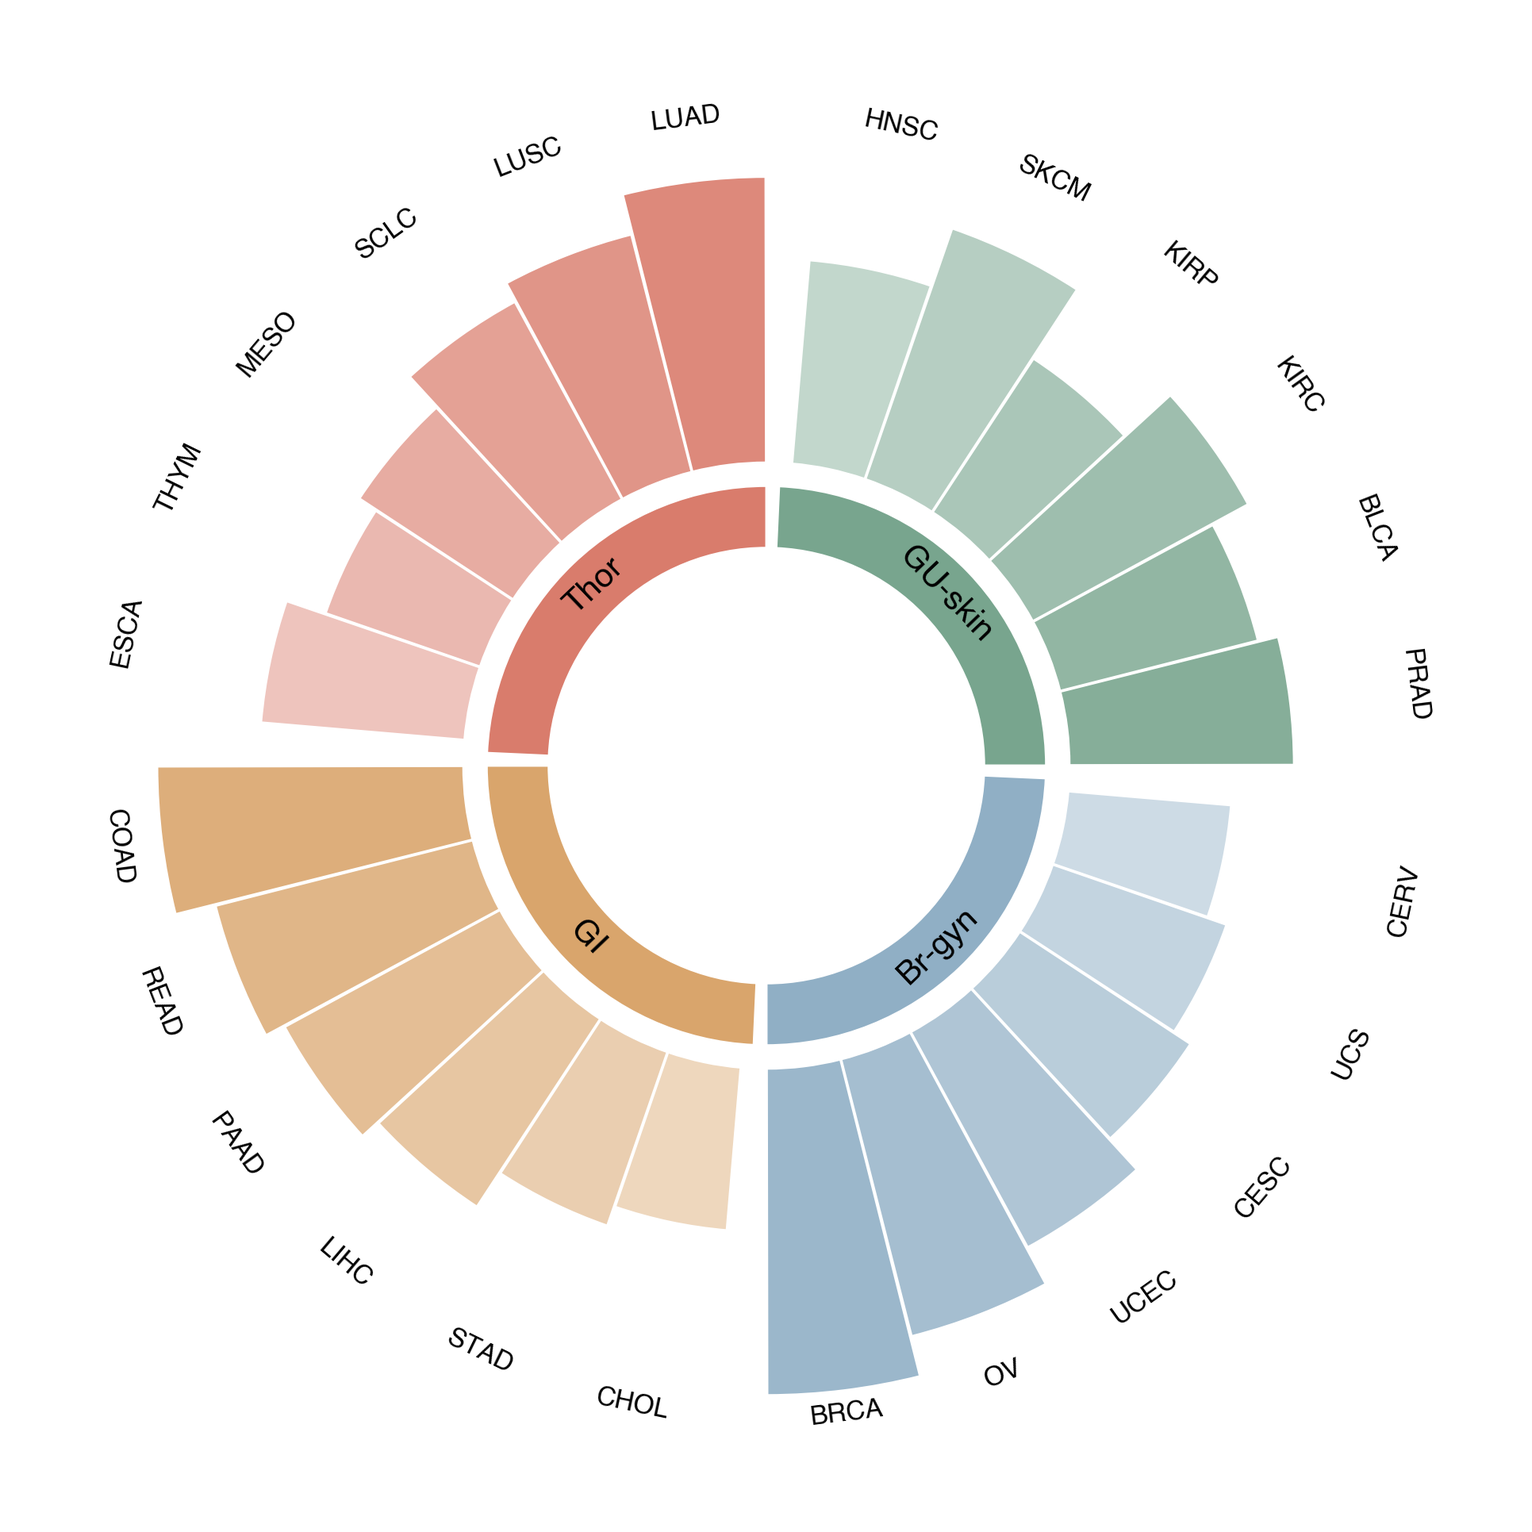
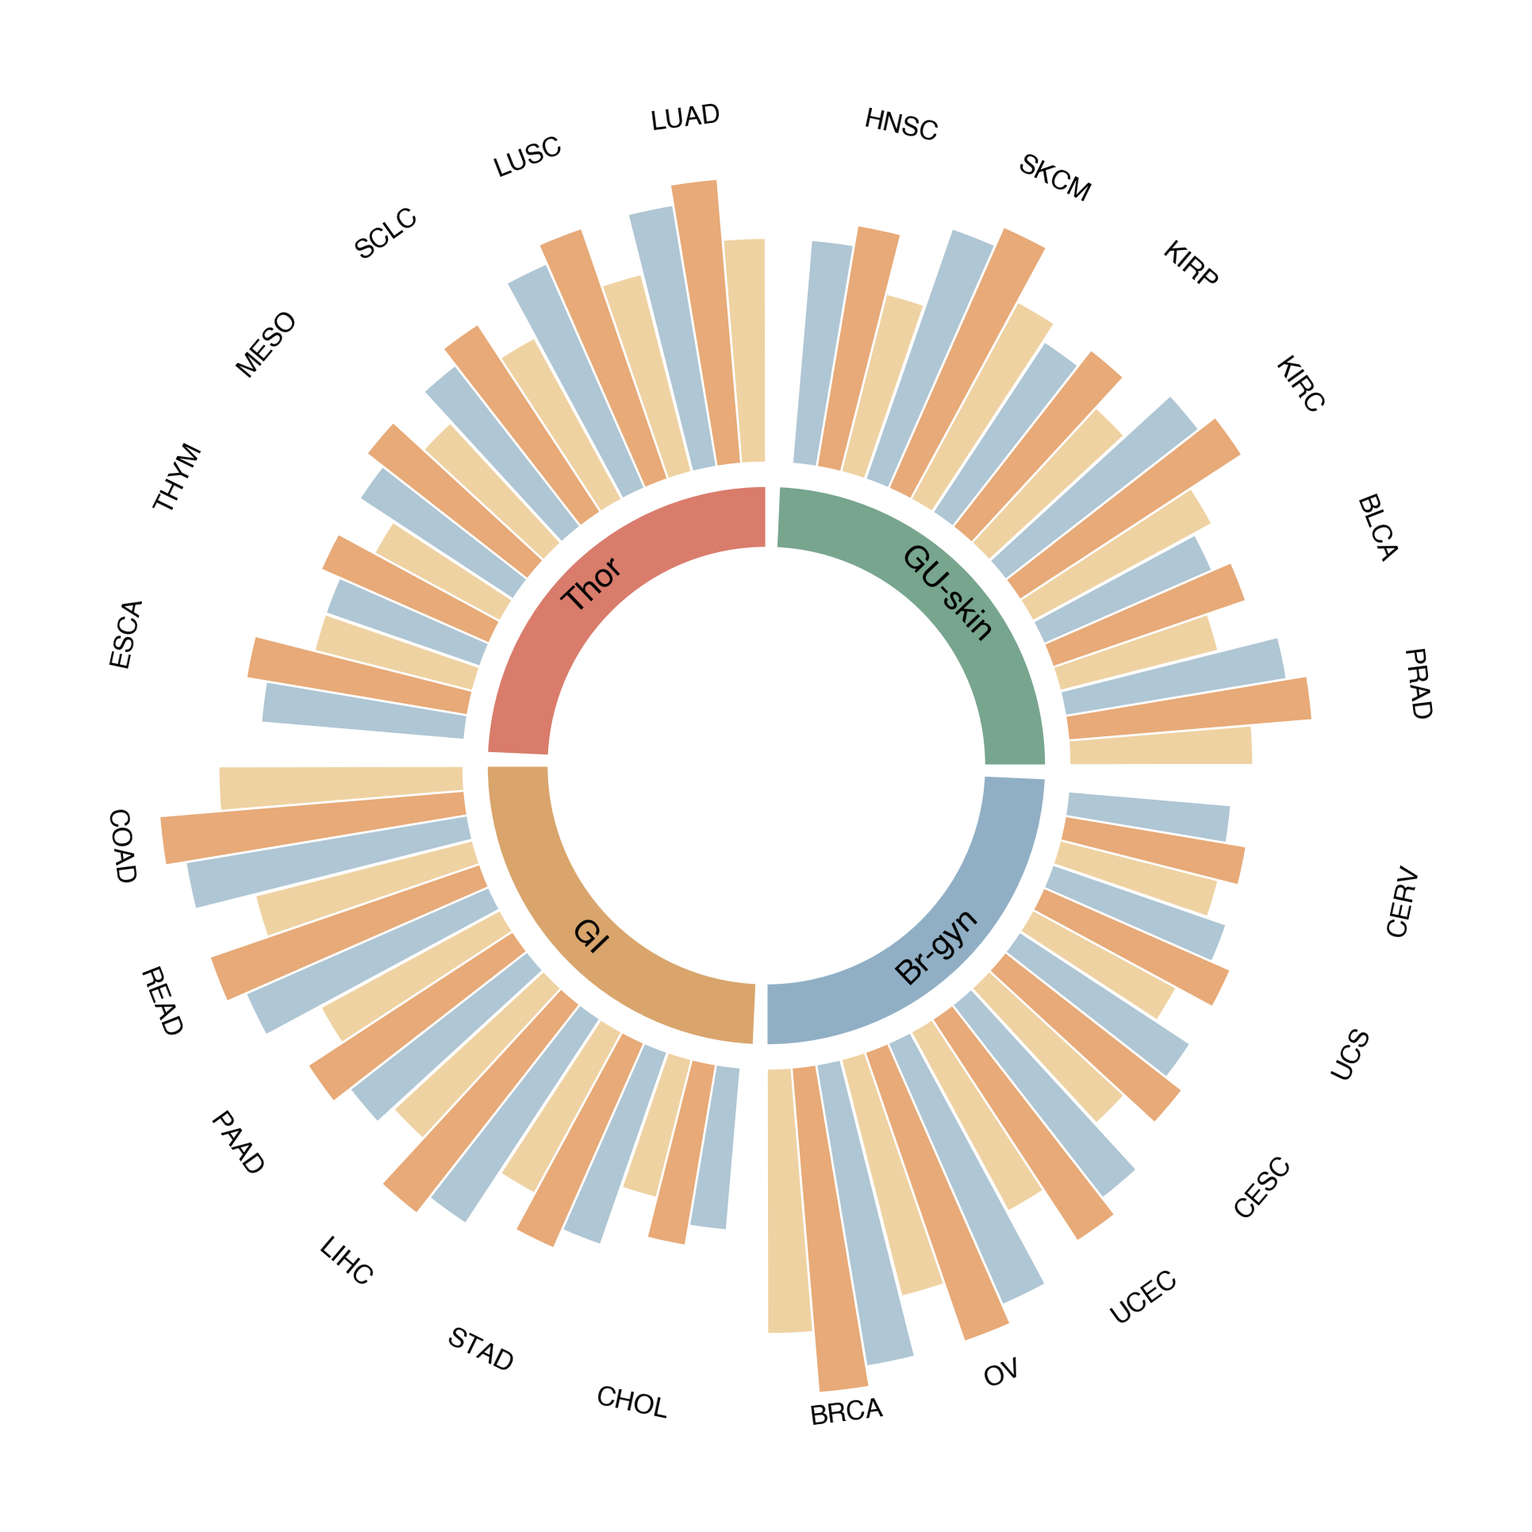
feat(polar): add new polar families to full gallery
Update radial_hierarchy defaults, rework circular_grouped_bar, and sync gallery plus README references for the new polar families.\n\nCo-Authored-By: Claude <noreply@anthropic.com>

Changed region(s): [[0.0932, 0.0932, 0.87, 0.9322]]

diff --git a/src/pubfig/plots/polar.py b/src/pubfig/plots/polar.py
@@ -134,7 +134,7 @@ def radial_hierarchy(
     group_gap_degrees: float = 2.4,
     outer_label_radius_offset: float = 0.08,
     outer_value_radius_offset: float = 0.03,
-    subgroup_label_position: str = "outside",
+    subgroup_label_position: str = "inside",
     show_group_labels: bool = True,
     show_outer_values: bool = True,
     center_text_font_size: Optional[int] = None,
@@ -582,6 +582,8 @@ def circular_grouped_bar(
     *,
     item_labels: Sequence[str],
     item_groups: Sequence[str],
+    series_labels: Optional[Sequence[str]] = None,
+    series_colors: Optional[Sequence[str]] = None,
     group_colors: Optional[Sequence[str]] = None,
     title: Optional[str] = None,
     start_angle: float = 90.0,
@@ -591,9 +593,12 @@ def circular_grouped_bar(
     bar_max_height: float = 0.42,
     item_gap_degrees: float = 0.18,
     group_gap_degrees: float = 4.8,
+    series_gap_degrees: float = 0.05,
     outer_label_offset: float = 0.03,
     group_label_font_size: Optional[int] = 5,
     item_label_font_size: Optional[int] = 4,
+    legend_show: bool = False,
+    legend_ncol: Optional[int] = None,
     show_group_labels: bool = True,
     show_value_labels: bool = False,
     value_label_font_size: Optional[int] = None,
@@ -603,24 +608,30 @@ def circular_grouped_bar(
     ax: Optional["Axes"] = None,
 ) -> "Figure":
     """Create a circular grouped bar chart with an inner group ring."""
-    arr = np.asarray(values, dtype=float).reshape(-1)
-    if arr.size == 0:
-        raise ValueError("values must contain at least one element")
+    arr = np.asarray(values, dtype=float)
+    if arr.ndim == 1:
+        arr = arr[:, None]
+    if arr.ndim != 2 or arr.shape[0] == 0 or arr.shape[1] == 0:
+        raise ValueError("values must be a 2D numpy array with shape (n_items, n_series)")
     if np.any(arr < 0):
         raise ValueError("values must be non-negative")
-    n_items = int(arr.size)
+    n_items, n_series = arr.shape
     labels = [str(item) for item in item_labels]
     if len(labels) != n_items:
-        raise ValueError("item_labels must match the number of values")
+        raise ValueError("item_labels must match the number of rows in values")
     groups = [str(item) for item in item_groups]
     if len(groups) != n_items:
-        raise ValueError("item_groups must match the number of values")
+        raise ValueError("item_groups must match the number of rows in values")
+    series = [str(item) for item in series_labels] if series_labels is not None else [f"S{idx + 1}" for idx in range(n_series)]
+    if len(series) != int(n_series):
+        raise ValueError("series_labels must match the number of columns in values")
 
     group_names, group_starts, group_counts = _ordered_group_blocks(groups)
+    series_palette = normalize_palette(series_colors, fallback=["#EFD2A2", "#E7AA78", "#AFC6D4", "#6E88AA"])
     group_palette = normalize_palette(group_colors, fallback=["#D97C6C", "#D9A56C", "#90AFC5", "#78A58E"])
     max_value = float(np.max(arr))
     if max_value <= 0:
-        raise ValueError("At least one item in values must be positive")
+        raise ValueError("At least one entry in values must be positive")
 
     total_item_gap = float(item_gap_degrees) * float(n_items)
     total_group_gap = float(group_gap_degrees) * float(len(group_names))
@@ -628,6 +639,10 @@ def circular_grouped_bar(
     if usable <= 0:
         raise ValueError("Too many items or too much angular gap for a circular grouped bar plot")
     item_span = usable / float(n_items)
+    total_series_gap = max(0.0, float(n_series - 1)) * float(series_gap_degrees)
+    bar_span = (float(item_span) - float(total_series_gap)) / float(n_series)
+    if bar_span <= 0:
+        raise ValueError("series_gap_degrees is too large for the number of grouped series")
 
     with theme_context(theme) as t:
         dpi = resolve_design_dpi(t.name)
@@ -636,33 +651,37 @@ def circular_grouped_bar(
         group_fs = int(group_label_font_size) if group_label_font_size is not None else max(7, int(t.axis.tick_font_size) - 2)
         item_fs = int(item_label_font_size) if item_label_font_size is not None else max(6, int(t.axis.tick_font_size) - 3)
         value_fs = int(value_label_font_size) if value_label_font_size is not None else max(6, int(t.axis.tick_font_size) - 3)
+        series_handles = [Patch(facecolor=series_palette[idx % len(series_palette)], edgecolor="none", label=str(series[idx])) for idx in range(n_series)]
 
         group_lookup = {name: idx for idx, name in enumerate(group_names)}
         cursor = float(start_angle)
         group_ranges: list[tuple[str, float, float]] = []
         for g_name, g_start, g_count in zip(group_names, group_starts, group_counts, strict=True):
             group_theta0 = float(cursor)
-            base_color = str(group_palette[group_lookup[g_name] % len(group_palette)])
             for local_item_idx in range(int(g_count)):
                 item_idx = int(g_start + local_item_idx)
-                theta0 = float(cursor + item_gap_degrees * 0.5)
-                theta1 = float(theta0 + item_span)
-                theta_mid = 0.5 * (float(theta0) + float(theta1))
+                item_theta0 = float(cursor + item_gap_degrees * 0.5)
+                item_theta1 = float(item_theta0 + item_span)
+                theta_mid = 0.5 * (float(item_theta0) + float(item_theta1))
                 theta_rad = np.deg2rad(float(theta_mid))
-                height = float(bar_max_height) * float(arr[item_idx]) / float(max_value)
-                shade = 0.10 + 0.45 * (float(local_item_idx) / max(1.0, float(g_count - 1)))
-                patch = Wedge(
-                    (0.0, 0.0),
-                    r=float(bar_inner_radius + height),
-                    theta1=float(theta0),
-                    theta2=float(theta1),
-                    width=float(height),
-                    facecolor=_blend_with_white(base_color, amount=min(max(shade, 0.0), 0.75)),
-                    edgecolor="white",
-                    linewidth=max(float(t.axis.line_width) * 0.35, 0.3),
-                    zorder=3,
-                )
-                ax.add_patch(patch)
+                series_cursor = float(item_theta0)
+                for series_idx in range(n_series):
+                    theta0 = float(series_cursor)
+                    theta1 = float(theta0 + bar_span)
+                    series_cursor = float(theta1 + float(series_gap_degrees))
+                    height = float(bar_max_height) * float(arr[item_idx, series_idx]) / float(max_value)
+                    patch = Wedge(
+                        (0.0, 0.0),
+                        r=float(bar_inner_radius + height),
+                        theta1=float(theta0),
+                        theta2=float(theta1),
+                        width=float(height),
+                        facecolor=series_palette[series_idx % len(series_palette)],
+                        edgecolor="white",
+                        linewidth=max(float(t.axis.line_width) * 0.35, 0.28),
+                        zorder=3,
+                    )
+                    ax.add_patch(patch)
 
                 label_radius = float(bar_inner_radius) + float(bar_max_height) + float(outer_label_offset)
                 ax.text(
@@ -678,11 +697,11 @@ def circular_grouped_bar(
                     zorder=4,
                 )
                 if bool(show_value_labels):
-                    value_radius = float(bar_inner_radius + height + 0.02)
+                    value_radius = float(bar_inner_radius + float(bar_max_height) + 0.02)
                     ax.text(
                         value_radius * float(np.cos(theta_rad)),
                         value_radius * float(np.sin(theta_rad)),
-                        f"{float(arr[item_idx]):.0f}",
+                        f"{float(np.max(arr[item_idx])):.0f}",
                         rotation=float(_upright_tangent_rotation(float(theta_mid))),
                         rotation_mode="anchor",
                         ha="center",
@@ -728,6 +747,22 @@ def circular_grouped_bar(
 
         if title:
             title_above(ax, str(title), y=1.04)
+        if bool(legend_show):
+            legend = ax.legend(
+                handles=series_handles,
+                frameon=False,
+                ncol=int(legend_ncol) if legend_ncol is not None else min(4, max(1, len(series_handles))),
+                loc="lower center",
+                bbox_to_anchor=(0.5, -0.04),
+                prop={"family": t.font_family, "size": float(t.legend_font_size)},
+                handlelength=1.0,
+                columnspacing=0.7,
+                handletextpad=0.4,
+            )
+            try:
+                legend.set_in_layout(True)
+            except Exception:
+                pass
 
         lim = float(bar_inner_radius) + float(bar_max_height) + float(outer_label_offset) + 0.14
         ax.set_xlim(-lim, lim)

diff --git a/examples/new_plot_showcases.py b/examples/new_plot_showcases.py
@@ -305,8 +305,8 @@ def make_circular_stacked_bar_demo() -> tuple[np.ndarray, list[str], list[str], 
     return values, item_labels, item_groups, stack_labels
 
 
-def make_circular_grouped_bar_demo() -> tuple[np.ndarray, list[str], list[str]]:
-    """Return a dense circular grouped bar demo."""
+def make_circular_grouped_bar_demo() -> tuple[np.ndarray, list[str], list[str], list[str]]:
+    """Return a true grouped circular bar demo."""
     item_groups = (
         ["Thor"] * 6
         + ["GI"] * 6
@@ -341,14 +341,35 @@ def make_circular_grouped_bar_demo() -> tuple[np.ndarray, list[str], list[str]]:
     ]
     values = np.array(
         [
-            14, 12, 11, 9, 8, 10,
-            15, 13, 12, 11, 9, 8,
-            16, 14, 12, 10, 9, 8,
-            11, 10, 12, 9, 13, 10,
+            [11, 14, 13],
+            [10, 13, 12],
+            [9, 11, 10],
+            [8, 10, 9],
+            [7, 9, 8],
+            [8, 11, 10],
+            [12, 15, 14],
+            [11, 14, 13],
+            [10, 12, 11],
+            [10, 13, 12],
+            [9, 11, 10],
+            [7, 9, 8],
+            [13, 16, 15],
+            [12, 15, 14],
+            [10, 13, 12],
+            [9, 11, 10],
+            [8, 10, 9],
+            [8, 9, 8],
+            [9, 12, 11],
+            [8, 10, 9],
+            [10, 13, 12],
+            [9, 11, 10],
+            [11, 14, 13],
+            [9, 12, 11],
         ],
         dtype=float,
     )
-    return values, item_labels, item_groups
+    series_labels = ["Cohort A", "Cohort B", "Cohort C"]
+    return values, item_labels, item_groups, series_labels
 
 
 __all__ = [

diff --git a/examples/gallery_contact_sheet.py b/examples/gallery_contact_sheet.py
@@ -14,9 +14,11 @@ _GALLERY_ROWS: tuple[tuple[str, ...], ...] = (
     ("08_strip", "08b_raincloud", "09_ridgeline", "10_line"),
     ("11_line_ci", "12_area", "13_scatter", "14_bubble"),
     ("15_contour2d", "15b_hexbin", "16_paired", "16b_dumbbell"),
-    ("16c_forest_plot", "17_radar", "18_heatmap", "19_confusion_matrix"),
-    ("20_corr_matrix", "21_clustermap", "24_roc", "25_pr_curve"),
-    ("25b_volcano", "26_sankey", "27_parallel_coords"),
+    ("16c_forest_plot", "16d_grouped_scatter", "16e_donut", "16f_stacked_ratio_barh"),
+    ("16g_radial_hierarchy", "16h_circular_stacked_bar", "16i_circular_grouped_bar", "17_radar"),
+    ("18_heatmap", "19_confusion_matrix", "20_corr_matrix", "21_clustermap"),
+    ("24_roc", "25_pr_curve", "25b_volcano", "26_sankey"),
+    ("27_parallel_coords",),
 )
 
 _CELL_WIDTH = 560

diff --git a/examples/export_gallery.py b/examples/export_gallery.py
@@ -463,12 +463,13 @@ save_square(
     ),
     "16h_circular_stacked_bar",
 )
-circular_grouped_values, circular_grouped_items, circular_grouped_groups = make_circular_grouped_bar_showcase()
+circular_grouped_values, circular_grouped_items, circular_grouped_groups, circular_grouped_series = make_circular_grouped_bar_showcase()
 save_square(
     pf.circular_grouped_bar(
         circular_grouped_values,
         item_labels=circular_grouped_items,
         item_groups=circular_grouped_groups,
+        series_labels=circular_grouped_series,
         title=None,
         width=1000,
         height=1000,

diff --git a/examples/gallery.py b/examples/gallery.py
@@ -367,11 +367,12 @@ fig = pf.circular_stacked_bar(
 )
 fig.show()
 
-circular_grouped_values, circular_grouped_items, circular_grouped_groups = make_circular_grouped_bar_showcase()
+circular_grouped_values, circular_grouped_items, circular_grouped_groups, circular_grouped_series = make_circular_grouped_bar_showcase()
 fig = pf.circular_grouped_bar(
     circular_grouped_values,
     item_labels=circular_grouped_items,
     item_groups=circular_grouped_groups,
+    series_labels=circular_grouped_series,
     title=None,
 )
 fig.show()

diff --git a/README.md b/README.md
@@ -78,12 +78,12 @@
   <a href="examples/volcano.png"><img src="examples/volcano.png" width="48%" alt="Volcano example"></a>
 </p>
 <p align="center">
-  <a href="examples/donut.png"><img src="examples/donut.png" width="48%" alt="Donut example"></a>
-  <a href="examples/stacked_ratio_barh.png"><img src="examples/stacked_ratio_barh.png" width="48%" alt="Stacked ratio example"></a>
-</p>
-<p align="center">
   <a href="examples/grouped_scatter.png"><img src="examples/grouped_scatter.png" width="48%" alt="Grouped scatter example"></a>
   <a href="examples/radial_hierarchy.png"><img src="examples/radial_hierarchy.png" width="48%" alt="Radial hierarchy example"></a>
+</p>
+<p align="center">
+  <a href="examples/circular_stacked_bar.png"><img src="examples/circular_stacked_bar.png" width="48%" alt="Circular stacked bar example"></a>
+  <a href="examples/circular_grouped_bar.png"><img src="examples/circular_grouped_bar.png" width="48%" alt="Circular grouped bar example"></a>
 </p>
 
 #### Composite figure examples assembled in Figma
@@ -220,9 +220,9 @@ import pubfig as pf
 | <a id="recipe-stacked_ratio_barh"></a>`stacked_ratio_barh` | `pf.stacked_ratio_barh(np.array([30, 33, 40, 65]), labels=["EGFR", "KRAS", "PTEN", "BRAF"], group_labels=["LUAD", "LUAD", "UCEC", "SKCM"])` | `group_labels`, `negative_values`, `title` |
 | <a id="recipe-radial_hierarchy"></a>`radial_hierarchy` | `pf.radial_hierarchy(np.array([24, 18, 15, 11, 28, 10]), subgroup_labels=["LIHC", "CRC", "GAST", "PAAD", "LUAD", "ESCA"], subgroup_groups=["Digestive", "Digestive", "Digestive", "Digestive", "Thoracic", "Thoracic"], group_labels=["Digestive", "Thoracic"], center_text="2 systems\n6 classes")` | `group_labels`, `center_text`, `show_outer_values` |
 | <a id="recipe-circular_stacked_bar"></a>`circular_stacked_bar` | `pf.circular_stacked_bar(np.array([[9, 11, 7, 4], [8, 10, 8, 4], [7, 9, 7, 3], [10, 12, 8, 4]], dtype=float), item_labels=["LUAD", "LUSC", "SCLC", "COAD"], item_groups=["Thor", "Thor", "Thor", "GI"])` | `item_groups`, `stack_labels`, `group_legend_show` |
-| <a id="recipe-circular_grouped_bar"></a>`circular_grouped_bar` | `pf.circular_grouped_bar(np.array([14, 12, 11, 15, 13, 12], dtype=float), item_labels=["LUAD", "LUSC", "SCLC", "COAD", "READ", "PAAD"], item_groups=["Thor", "Thor", "Thor", "GI", "GI", "GI"])` | `item_groups`, `show_value_labels`, `group_colors` |
+| <a id="recipe-circular_grouped_bar"></a>`circular_grouped_bar` | `pf.circular_grouped_bar(np.array([[11, 14, 13], [10, 13, 12], [9, 11, 10], [12, 15, 14]], dtype=float), item_labels=["LUAD", "LUSC", "SCLC", "COAD"], item_groups=["Thor", "Thor", "Thor", "GI"], series_labels=["A", "B", "C"])` | `series_labels`, `series_colors`, `legend_show` |
 
-The polar defaults for `circular_stacked_bar(...)` and `circular_grouped_bar(...)` now follow the denser publication-style settings used in the gallery: tighter group/item spacing, shorter single-line inner labels, and the built-in warm/cool polar palette. In most cases, you can start from the minimal call and only add data-specific labels.
+The polar defaults for `circular_stacked_bar(...)` and `circular_grouped_bar(...)` now follow the denser publication-style settings used in the gallery: tighter group/item spacing, shorter single-line inner labels, and built-in warm/cool palettes. `circular_grouped_bar(...)` now renders true grouped polar bars with multiple side-by-side series inside each item slot.
 
 ##### Distribution
 

diff --git a/README.zh-CN.md b/README.zh-CN.md
@@ -78,12 +78,12 @@
   <a href="examples/volcano.png"><img src="examples/volcano.png" width="48%" alt="Volcano 示例"></a>
 </p>
 <p align="center">
-  <a href="examples/donut.png"><img src="examples/donut.png" width="48%" alt="Donut 示例"></a>
-  <a href="examples/stacked_ratio_barh.png"><img src="examples/stacked_ratio_barh.png" width="48%" alt="Stacked ratio 示例"></a>
-</p>
-<p align="center">
   <a href="examples/grouped_scatter.png"><img src="examples/grouped_scatter.png" width="48%" alt="Grouped scatter 示例"></a>
   <a href="examples/radial_hierarchy.png"><img src="examples/radial_hierarchy.png" width="48%" alt="Radial hierarchy 示例"></a>
+</p>
+<p align="center">
+  <a href="examples/circular_stacked_bar.png"><img src="examples/circular_stacked_bar.png" width="48%" alt="Circular stacked bar 示例"></a>
+  <a href="examples/circular_grouped_bar.png"><img src="examples/circular_grouped_bar.png" width="48%" alt="Circular grouped bar 示例"></a>
 </p>
 
 #### 在 Figma 中拼接的合成大图示例
@@ -218,9 +218,9 @@ import pubfig as pf
 | <a id="recipe-stacked_ratio_barh"></a>`stacked_ratio_barh` | `pf.stacked_ratio_barh(np.array([30, 33, 40, 65]), labels=["EGFR", "KRAS", "PTEN", "BRAF"], group_labels=["LUAD", "LUAD", "UCEC", "SKCM"])` | `group_labels`, `negative_values`, `title` |
 | <a id="recipe-radial_hierarchy"></a>`radial_hierarchy` | `pf.radial_hierarchy(np.array([24, 18, 15, 11, 28, 10]), subgroup_labels=["LIHC", "CRC", "GAST", "PAAD", "LUAD", "ESCA"], subgroup_groups=["Digestive", "Digestive", "Digestive", "Digestive", "Thoracic", "Thoracic"], group_labels=["Digestive", "Thoracic"], center_text="2 systems\n6 classes")` | `group_labels`, `center_text`, `show_outer_values` |
 | <a id="recipe-circular_stacked_bar"></a>`circular_stacked_bar` | `pf.circular_stacked_bar(np.array([[9, 11, 7, 4], [8, 10, 8, 4], [7, 9, 7, 3], [10, 12, 8, 4]], dtype=float), item_labels=["LUAD", "LUSC", "SCLC", "COAD"], item_groups=["Thor", "Thor", "Thor", "GI"])` | `item_groups`, `stack_labels`, `group_legend_show` |
-| <a id="recipe-circular_grouped_bar"></a>`circular_grouped_bar` | `pf.circular_grouped_bar(np.array([14, 12, 11, 15, 13, 12], dtype=float), item_labels=["LUAD", "LUSC", "SCLC", "COAD", "READ", "PAAD"], item_groups=["Thor", "Thor", "Thor", "GI", "GI", "GI"])` | `item_groups`, `show_value_labels`, `group_colors` |
+| <a id="recipe-circular_grouped_bar"></a>`circular_grouped_bar` | `pf.circular_grouped_bar(np.array([[11, 14, 13], [10, 13, 12], [9, 11, 10], [12, 15, 14]], dtype=float), item_labels=["LUAD", "LUSC", "SCLC", "COAD"], item_groups=["Thor", "Thor", "Thor", "GI"], series_labels=["A", "B", "C"])` | `series_labels`, `series_colors`, `legend_show` |
 
-`circular_stacked_bar(...)` 和 `circular_grouped_bar(...)` 现在已经把图库里那套更致密的 publication 风格默认值固化进函数本身：更紧的组间距 / 条间距、单行短内圈标签，以及默认的暖冷对照配色。多数情况下你直接从最小调用开始，只补自己的标签和数据就够了。
+`circular_stacked_bar(...)` 和 `circular_grouped_bar(...)` 现在已经把图库里那套更致密的 publication 风格默认值固化进函数本身：更紧的组间距 / 条间距、单行短内圈标签，以及默认的暖冷配色。现在的 `circular_grouped_bar(...)` 也会在每个 item 槽位里真正画出并列的多组 polar bars，而不再是单柱版本。
 
 ##### 分布
 
